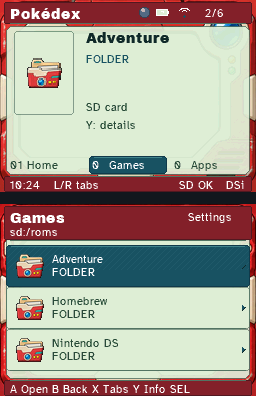
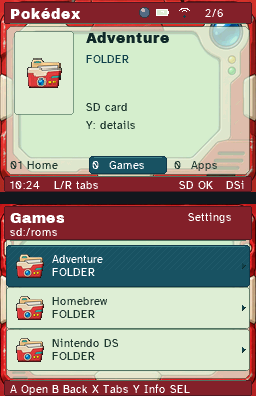
Reveal Pokedex casing through translucent readable LCD surfaces

diff --git a/tests/test_inspired_collection.py b/tests/test_inspired_collection.py
@@ -185,7 +185,8 @@ class InspiredCollectionTests(unittest.TestCase):
         for screen in ("top", "bottom"):
             with Image.open(folder / "backgrounds" / ("material-" + screen + ".png")) as surface:
                 self.assertEqual(surface.getpixel((0, 0))[3], 0)
-                self.assertGreaterEqual(surface.getpixel((128, 100))[3], 230)
+                self.assertGreaterEqual(surface.getpixel((128, 100))[3], 170)
+                self.assertLessEqual(surface.getpixel((128, 100))[3], 205)
                 r, g, b, _ = surface.getpixel((128, 100))
                 self.assertGreater(g, r)
                 self.assertGreater(g, b)

diff --git a/tools/pokedex_assets.py b/tools/pokedex_assets.py
@@ -16,7 +16,7 @@ def reading_surface(screen):
     # lightly translucent LCD beneath every layout's text and navigation.
     draw.rounded_rectangle(
         (6, 26, 249, 174), radius=6,
-        fill=(220, 234, 213, 239), outline=(84, 116, 96, 210)
+        fill=(220, 234, 213, 190), outline=(84, 116, 96, 160)
     )
     return image
 
